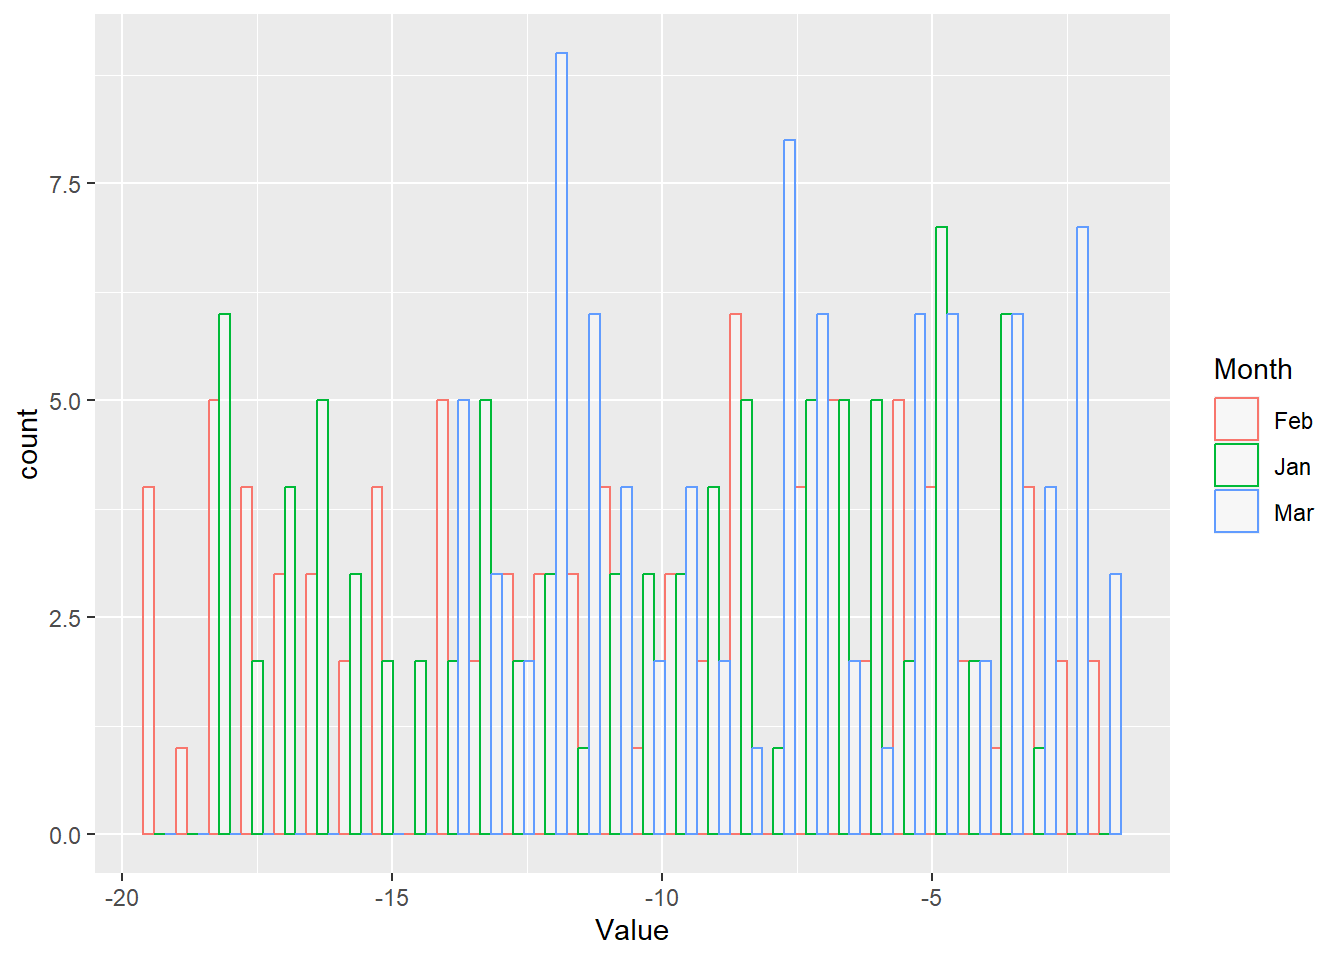
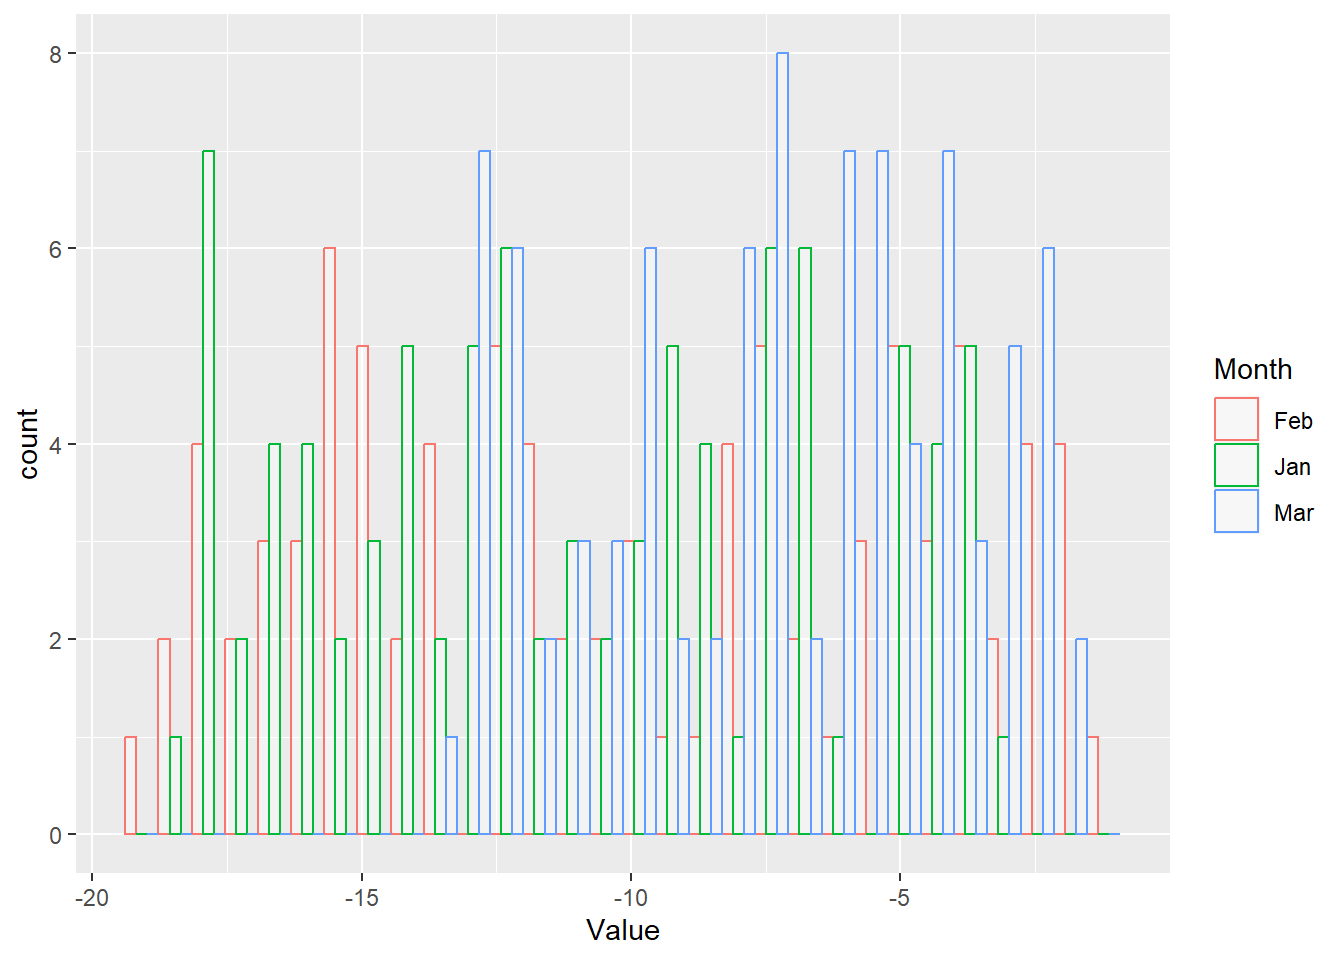
Minor update

diff --git a/docs/ch4.html b/docs/ch4.html
@@ -7,7 +7,7 @@
 <meta name="viewport" content="width=device-width, initial-scale=1.0, user-scalable=yes">
 
 
-<title>R for Spatial Analysis &amp; Visualization - 5&nbsp; Excercise 1</title>
+<title>R for Spatial Analysis &amp; Visualization - 5&nbsp; Exercise #1</title>
 <style>
 code{white-space: pre-wrap;}
 span.smallcaps{font-variant: small-caps;}
@@ -110,7 +110,7 @@ pre > code.sourceCode > span > a:first-child::before { text-decoration: underlin
       <button type="button" class="quarto-btn-toggle btn" data-bs-toggle="collapse" data-bs-target="#quarto-sidebar,#quarto-sidebar-glass" aria-controls="quarto-sidebar" aria-expanded="false" aria-label="Toggle sidebar navigation" onclick="if (window.quartoToggleHeadroom) { window.quartoToggleHeadroom(); }">
         <i class="bi bi-layout-text-sidebar-reverse"></i>
       </button>
-      <nav class="quarto-page-breadcrumbs" aria-label="breadcrumb"><ol class="breadcrumb"><li class="breadcrumb-item"><a href="./ch4.html"><span class="chapter-number">5</span>&nbsp; <span class="chapter-title">Excercise 1</span></a></li></ol></nav>
+      <nav class="quarto-page-breadcrumbs" aria-label="breadcrumb"><ol class="breadcrumb"><li class="breadcrumb-item"><a href="./ch4.html"><span class="chapter-number">5</span>&nbsp; <span class="chapter-title">Exercise #1</span></a></li></ol></nav>
       <a class="flex-grow-1" role="button" data-bs-toggle="collapse" data-bs-target="#quarto-sidebar,#quarto-sidebar-glass" aria-controls="quarto-sidebar" aria-expanded="false" aria-label="Toggle sidebar navigation" onclick="if (window.quartoToggleHeadroom) { window.quartoToggleHeadroom(); }">      
       </a>
       <button type="button" class="btn quarto-search-button" aria-label="" onclick="window.quartoOpenSearch();">
@@ -123,7 +123,7 @@ pre > code.sourceCode > span > a:first-child::before { text-decoration: underlin
 <header id="title-block-header" class="quarto-title-block default page-columns page-full">
   <div class="quarto-title-banner page-columns page-full">
     <div class="quarto-title column-body">
-      <h1 class="title"><span class="chapter-number">5</span>&nbsp; <span class="chapter-title">Excercise 1</span></h1>
+      <h1 class="title"><span class="chapter-number">5</span>&nbsp; <span class="chapter-title">Exercise #1</span></h1>
                       </div>
   </div>
     
@@ -181,7 +181,7 @@ pre > code.sourceCode > span > a:first-child::before { text-decoration: underlin
         <li class="sidebar-item">
   <div class="sidebar-item-container"> 
   <a href="./ch4.html" class="sidebar-item-text sidebar-link active">
- <span class="menu-text"><span class="chapter-number">5</span>&nbsp; <span class="chapter-title">Excercise 1</span></span></a>
+ <span class="menu-text"><span class="chapter-number">5</span>&nbsp; <span class="chapter-title">Exercise #1</span></span></a>
   </div>
 </li>
     </ul>
@@ -198,7 +198,7 @@ pre > code.sourceCode > span > a:first-child::before { text-decoration: underlin
 
 
 
-<p>The U.S. Climate Reference Network (USCRN) is a systematic and sustained network of climate monitoring stations. USCRN has sites across Contiguous U.S. along with some in Alaska, and Hawaii. These stations are instrumented to measure meteorological information such as temperature, precipitation, wind speed, along with other relevant hydrologic variables such as soil mosture across multile depths at sub-hourly, daily and monthly time scales. Users can access daily dataset from all station suing the following link: <a href="https://www.ncei.noaa.gov/pub/data/uscrn/products/daily01/">Index of /pub/data/uscrn/products/daily01 (noaa.gov)</a></p>
+<p>The U.S. Climate Reference Network (USCRN) is a systematic and sustained network of climate monitoring stations. USCRN has sites across Contiguous U.S. along with some in Alaska, and Hawaii. These stations are instrumented to measure meteorological information such as temperature, precipitation, wind speed, along with other relevant hydrologic variables such as soil moisture at uniform depths (5, 10, 20, 50, 100 cm) at sub-hourly, daily and monthly time scales. Users can access daily data set from all station suing the following link: <a href="https://www.ncei.noaa.gov/pub/data/uscrn/products/daily01/">Index of /pub/data/uscrn/products/daily01 (noaa.gov)</a></p>
 <p>Let us extract sample data from a USCRN site in Lafayette, LA, USA for 2021.</p>
 <div class="cell">
 <div class="sourceCode cell-code" id="cb1"><pre class="sourceCode r code-with-copy"><code class="sourceCode r"><span id="cb1-1"><a href="#cb1-1" aria-hidden="true" tabindex="-1"></a><span class="co"># Yearly data from the sample station</span></span>
@@ -476,7 +476,7 @@ pre > code.sourceCode > span > a:first-child::before { text-decoration: underlin
 </figure>
 </div>
 </div>
-<p>Excercise:</p>
+<p>Exercise:</p>
 <ol type="1">
 <li><p>Taking examples of any two USCRN stations across contrasting hydroclimates, compare and contrast any two recorded variables using time series plots, probability density distribution histograms and scatter plots. Select any year of your liking for the analysis.</p></li>
 <li><p>Select two seasons for each elected variable and demonstrate the seasonal variability in the records for summer (MAMJJA) and winter (SONDJF) seasons using any two types of multivariate plots.</p></li>

diff --git a/docs/ch3.html b/docs/ch3.html
@@ -179,7 +179,7 @@ pre > code.sourceCode > span > a:first-child::before { text-decoration: underlin
         <li class="sidebar-item">
   <div class="sidebar-item-container"> 
   <a href="./ch4.html" class="sidebar-item-text sidebar-link">
- <span class="menu-text"><span class="chapter-number">5</span>&nbsp; <span class="chapter-title">Excercise 1</span></span></a>
+ <span class="menu-text"><span class="chapter-number">5</span>&nbsp; <span class="chapter-title">Exercise #1</span></span></a>
   </div>
 </li>
     </ul>
@@ -228,14 +228,18 @@ pre > code.sourceCode > span > a:first-child::before { text-decoration: underlin
 <span id="cb1-17"><a href="#cb1-17" aria-hidden="true" tabindex="-1"></a>            (lapply</span>
 <span id="cb1-18"><a href="#cb1-18" aria-hidden="true" tabindex="-1"></a>              (lib_names,library, <span class="at">character.only =</span> T))))</span></code><button title="Copy to Clipboard" class="code-copy-button"><i class="bi"></i></button></pre></div>
 </div>
-<p>In more day-to-day use, you will see youself using a simpler version of these commands, such as, if you were to install the “ggplot2”,“gridExtra” libraries, you will type:</p>
-<p><code># To install the package. Need to install only once.</code></p>
+<p>In more day-to-day use, you will see yourself using a simpler version of these commands, such as, if you were to install the “ggplot2”,“gridExtra” libraries, you will type:</p>
+<blockquote class="blockquote">
+<p><code># To install the package. Install only once</code></p>
 <p><code>install.packages("ggplot2")</code></p>
-<p><code># To initialize the package. Needs to be invoked every time a new session begins.</code></p>
+<p><code># To initialize the package. Invoke every time a new session begins.</code></p>
 <p><code>library(ggplot2)</code></p>
-<p>Similarly, again for <code>gridExtra,</code></p>
+</blockquote>
+<p>Similarly, again for <code>gridExtra</code> ,</p>
+<blockquote class="blockquote">
 <p><code>install.packages("gridExtra")</code></p>
-<p><code>library(``gridExtra``)</code></p>
+<p><code>library(gridExtra)</code></p>
+</blockquote>
 <p>For this exercise, let us generate a sample dataset.</p>
 <div class="cell">
 <div class="sourceCode cell-code" id="cb2"><pre class="sourceCode r code-with-copy"><code class="sourceCode r"><span id="cb2-1"><a href="#cb2-1" aria-hidden="true" tabindex="-1"></a><span class="do">###############################################################</span></span>
@@ -312,12 +316,12 @@ pre > code.sourceCode > span > a:first-child::before { text-decoration: underlin
 <pre><code># A tibble: 6 × 4
    Year January Month  Value
   &lt;dbl&gt;   &lt;dbl&gt; &lt;chr&gt;  &lt;dbl&gt;
-1  1913    43.5 Jan   -12.0 
-2  1913    43.5 Feb    -6.71
-3  1913    43.5 Mar    -2.68
-4  1914    29.7 Jan   -12.4 
-5  1914    29.7 Feb   -10.7 
-6  1914    29.7 Mar    -9.44</code></pre>
+1  1913    46.1 Jan    -8.48
+2  1913    46.1 Feb   -15.6 
+3  1913    46.1 Mar    -8.09
+4  1914    70.6 Jan    -9.29
+5  1914    70.6 Feb    -2.36
+6  1914    70.6 Mar    -3.89</code></pre>
 </div>
 </div>
 <p><strong>Line plot</strong></p>
@@ -682,7 +686,7 @@ window.document.addEventListener("DOMContentLoaded", function (event) {
   </div>
   <div class="nav-page nav-page-next">
       <a href="./ch4.html" class="pagination-link">
-        <span class="nav-page-text"><span class="chapter-number">5</span>&nbsp; <span class="chapter-title">Excercise 1</span></span> <i class="bi bi-arrow-right-short"></i>
+        <span class="nav-page-text"><span class="chapter-number">5</span>&nbsp; <span class="chapter-title">Exercise #1</span></span> <i class="bi bi-arrow-right-short"></i>
       </a>
   </div>
 </nav>

diff --git a/docs/ch1.html b/docs/ch1.html
@@ -179,7 +179,7 @@ pre > code.sourceCode > span > a:first-child::before { text-decoration: underlin
         <li class="sidebar-item">
   <div class="sidebar-item-container"> 
   <a href="./ch4.html" class="sidebar-item-text sidebar-link">
- <span class="menu-text"><span class="chapter-number">5</span>&nbsp; <span class="chapter-title">Excercise 1</span></span></a>
+ <span class="menu-text"><span class="chapter-number">5</span>&nbsp; <span class="chapter-title">Exercise #1</span></span></a>
   </div>
 </li>
     </ul>
@@ -466,13 +466,13 @@ pre > code.sourceCode > span > a:first-child::before { text-decoration: underlin
 <span id="cb86-8"><a href="#cb86-8" aria-hidden="true" tabindex="-1"></a>out[[<span class="dv">2</span>]] <span class="ot">=</span> data2</span>
 <span id="cb86-9"><a href="#cb86-9" aria-hidden="true" tabindex="-1"></a>out[[<span class="dv">1</span>]]          <span class="co"># Contains data1 at this location</span></span></code><button title="Copy to Clipboard" class="code-copy-button"><i class="bi"></i></button></pre></div>
 <div class="cell-output cell-output-stdout">
-<pre><code> [1] 26.37853 24.39183 20.33250 20.78651 26.21259 28.44498 29.60362 23.62320
- [9] 23.27216 23.40000 25.67152 25.56601 28.94948 24.79553 26.46931 28.90314
-[17] 24.31721 26.69627 24.88508 24.51709 24.49387 23.51720 20.84621 25.50716
-[25] 26.74330 21.16824 26.77925 21.12146 29.52640 27.54736 23.91979 22.70043
-[33] 28.54304 20.14318 23.38575 20.62372 25.01954 29.90696 26.16750 21.43998
-[41] 28.42381 28.66779 21.59477 25.97568 26.19542 23.57328 21.32757 24.70108
-[49] 21.62327 21.89307</code></pre>
+<pre><code> [1] 29.77122 21.60948 23.11040 23.47807 28.06521 23.63644 26.39234 25.43276
+ [9] 24.92617 25.61755 23.28818 26.47851 27.57020 29.04860 21.68576 28.22290
+[17] 29.65224 24.37176 22.69866 25.15578 27.14012 20.03448 24.57521 25.57719
+[25] 26.17821 27.64899 28.27955 21.97410 21.01047 21.93205 25.86423 21.94015
+[33] 29.55821 28.53274 27.97492 26.24036 21.21612 20.04140 26.87136 27.56151
+[41] 25.92711 29.32577 21.08503 25.20804 27.69663 22.04208 22.74023 25.15252
+[49] 20.90390 20.16885</code></pre>
 </div>
 <div class="sourceCode cell-code" id="cb88"><pre class="sourceCode r code-with-copy"><code class="sourceCode r"><span id="cb88-1"><a href="#cb88-1" aria-hidden="true" tabindex="-1"></a><span class="co"># Data frame</span></span>
 <span id="cb88-2"><a href="#cb88-2" aria-hidden="true" tabindex="-1"></a>out<span class="ot">=</span><span class="fu">data.frame</span>(<span class="at">x=</span>data1, <span class="at">y=</span>data2)</span>

diff --git a/docs/ch2.html b/docs/ch2.html
@@ -179,7 +179,7 @@ pre > code.sourceCode > span > a:first-child::before { text-decoration: underlin
         <li class="sidebar-item">
   <div class="sidebar-item-container"> 
   <a href="./ch4.html" class="sidebar-item-text sidebar-link">
- <span class="menu-text"><span class="chapter-number">5</span>&nbsp; <span class="chapter-title">Excercise 1</span></span></a>
+ <span class="menu-text"><span class="chapter-number">5</span>&nbsp; <span class="chapter-title">Exercise #1</span></span></a>
   </div>
 </li>
     </ul>
@@ -214,7 +214,7 @@ pre > code.sourceCode > span > a:first-child::before { text-decoration: underlin
 <div class="sourceCode cell-code" id="cb1"><pre class="sourceCode r code-with-copy"><code class="sourceCode r"><span id="cb1-1"><a href="#cb1-1" aria-hidden="true" tabindex="-1"></a><span class="co"># Create 50 random numbers between 0 and 100  </span></span>
 <span id="cb1-2"><a href="#cb1-2" aria-hidden="true" tabindex="-1"></a>data<span class="ot">=</span><span class="fu">runif</span>(<span class="dv">50</span>, <span class="dv">0</span>, <span class="dv">100</span>)   <span class="co">#runif stands for random numbers from a uniform distribution</span></span>
 <span id="cb1-3"><a href="#cb1-3" aria-hidden="true" tabindex="-1"></a></span>
-<span id="cb1-4"><a href="#cb1-4" aria-hidden="true" tabindex="-1"></a><span class="co"># Overplotting means adding layers to a plot.</span></span>
+<span id="cb1-4"><a href="#cb1-4" aria-hidden="true" tabindex="-1"></a><span class="co"># Let's plot the data</span></span>
 <span id="cb1-5"><a href="#cb1-5" aria-hidden="true" tabindex="-1"></a><span class="fu">plot</span>(data)            <span class="co"># The "plot" function initializes the plot.</span></span></code><button title="Copy to Clipboard" class="code-copy-button"><i class="bi"></i></button></pre></div>
 <div class="cell-output-display">
 <p><img src="ch2_files/figure-html/data frame and list-1.png" class="img-fluid" width="672"></p>

diff --git a/docs/index.html b/docs/index.html
@@ -158,7 +158,7 @@ ul.task-list li input[type="checkbox"] {
         <li class="sidebar-item">
   <div class="sidebar-item-container"> 
   <a href="./ch4.html" class="sidebar-item-text sidebar-link">
- <span class="menu-text"><span class="chapter-number">5</span>&nbsp; <span class="chapter-title">Excercise 1</span></span></a>
+ <span class="menu-text"><span class="chapter-number">5</span>&nbsp; <span class="chapter-title">Exercise #1</span></span></a>
   </div>
 </li>
     </ul>
